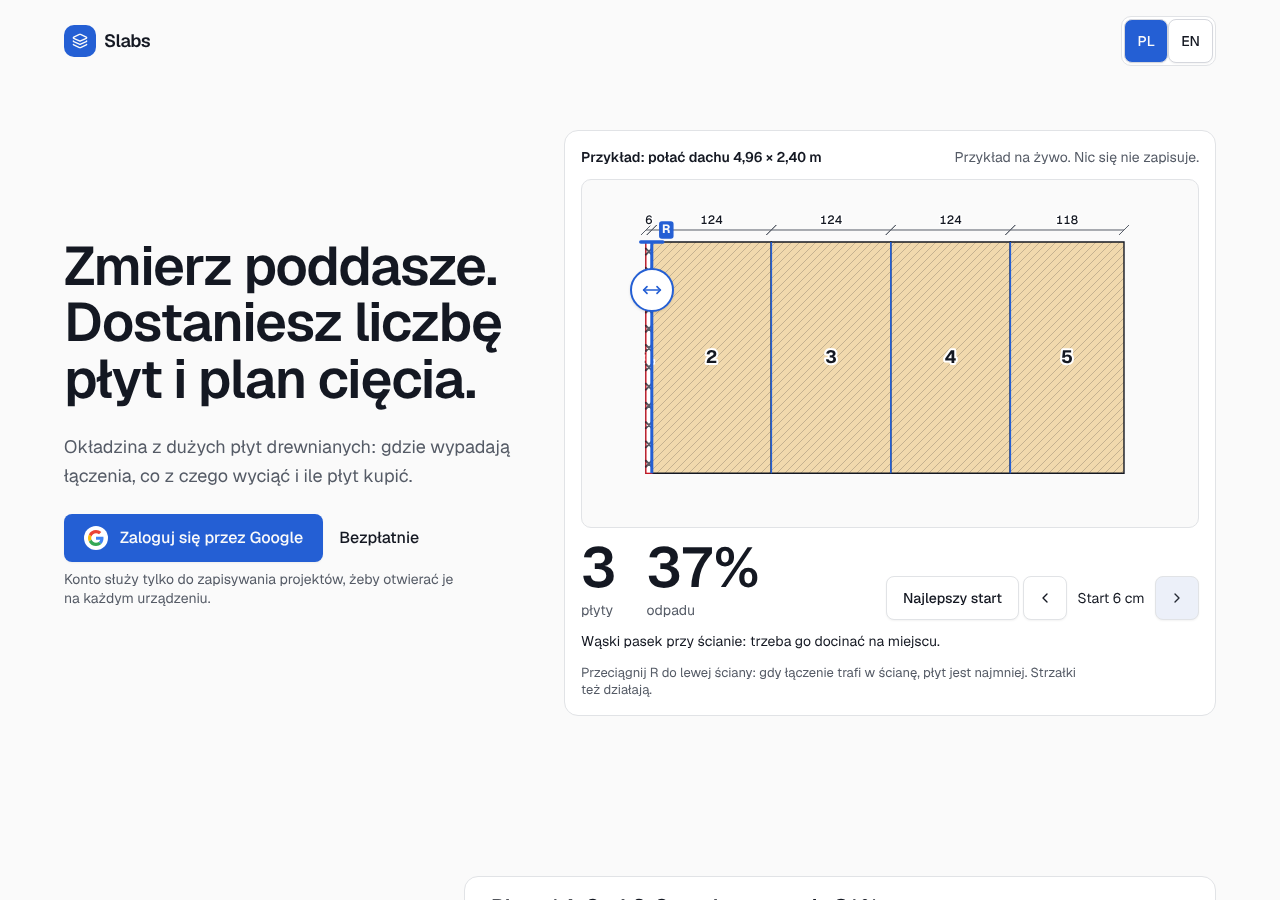
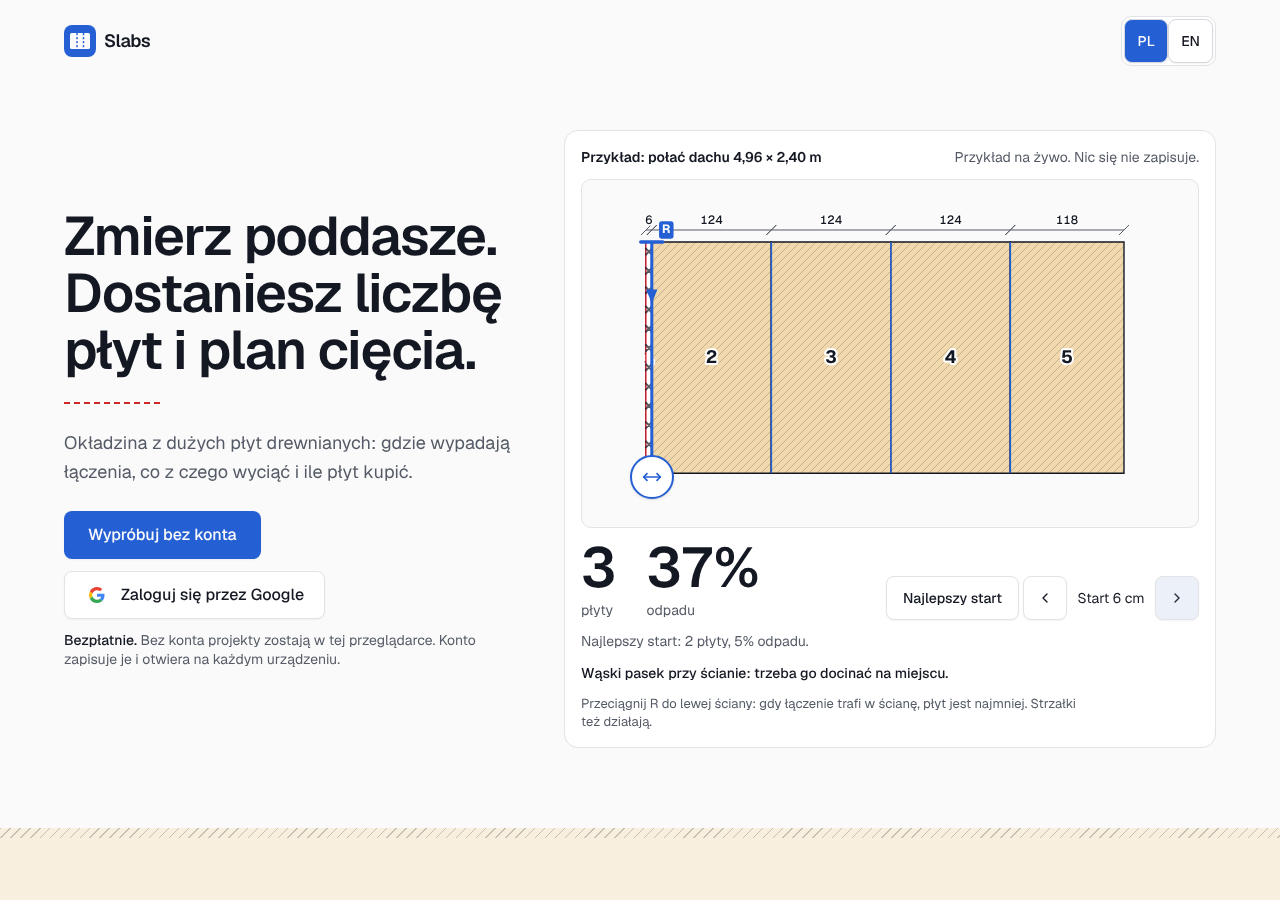
Landing: try without an account, own mark and paper bands, best-start comparison, phone fixes

diff --git a/packages/web/src/landing/Landing.tsx b/packages/web/src/landing/Landing.tsx
@@ -1,7 +1,6 @@
 import { useEffect } from 'react';
-import { Layers } from 'lucide-react';
 import { MARK_DEFS } from '@slabs/render';
-import { SignInTrigger } from '@/auth';
+import { SignInTrigger, enterGuest } from '@/auth';
 import { Button } from '@/components/ui/button';
 import { lang, nf, s, setLang } from '@/i18n';
 import { useLang } from '@/i18n/useLang';
@@ -21,21 +20,41 @@ function GoogleG({ className }: { className?: string }) {
   );
 }
 
-/** The one action of the page: sign in with Google (Clerk's modal). */
+/** The Slabs mark: a plate with its cut line. */
+function Mark({ className }: { className?: string }) {
+  return (
+    <svg viewBox="0 0 32 32" className={className} aria-hidden="true" focusable="false">
+      <rect width="32" height="32" rx="8" className="fill-primary" />
+      <rect x="6" y="8" width="20" height="16" rx="1.5" className="fill-primary-foreground" />
+      <path d="M13 8v16M19.5 8v16" stroke="currentColor" className="text-primary" strokeWidth="1.4" strokeDasharray="2.2 1.8" />
+    </svg>
+  );
+}
+
+/** The two ways in: the app without an account (primary), and Google sign-in (Clerk's modal), which saves projects to the account. */
 function SignInCta({ onBlue = false }: { onBlue?: boolean }) {
   return (
-    <div className="flex flex-wrap items-center gap-x-4 gap-y-2">
-      <SignInTrigger>
+    <div className="flex flex-col gap-3">
+      <div className="flex flex-wrap items-center gap-x-3 gap-y-3">
         <Button
-          data-a="sign-in"
-          className={cn('h-12 gap-3 px-5 text-base', onBlue && 'bg-card text-foreground hover:bg-card/90')}
+          data-a="try-guest" onClick={enterGuest}
+          className={cn('h-12 px-6 text-base', onBlue && 'bg-card text-foreground hover:bg-card/90')}
         >
-          <span className="grid size-6 place-items-center rounded-full bg-card"><GoogleG className="size-4" /></span>
-          {s.landing.cta}
+          {s.landing.tryIt}
         </Button>
-      </SignInTrigger>
-      <span className={cn('text-base font-medium', onBlue ? 'text-primary-foreground' : 'text-foreground')}>{s.landing.free}</span>
-      {!onBlue && <p className="basis-full max-w-[44ch] text-sm leading-snug text-muted-foreground">{s.landing.accountWhy}</p>}
+        <SignInTrigger>
+          <Button
+            data-a="sign-in" variant="outline"
+            className={cn('h-12 gap-3 px-5 text-base', onBlue && 'border-primary-foreground/40 bg-transparent text-primary-foreground hover:bg-primary-foreground/10 hover:text-primary-foreground')}
+          >
+            <span className="grid size-6 place-items-center rounded-full bg-card"><GoogleG className="size-4" /></span>
+            {s.landing.cta}
+          </Button>
+        </SignInTrigger>
+      </div>
+      <p className={cn('max-w-[48ch] text-sm leading-snug', onBlue ? 'text-primary-foreground/90' : 'text-muted-foreground')}>
+        <span className={cn('font-medium', onBlue ? 'text-primary-foreground' : 'text-foreground')}>{s.landing.free}.</span> {s.landing.accountWhy}
+      </p>
     </div>
   );
 }
@@ -61,14 +80,19 @@ function Plate({ a, label }: { a: ArtPlate; label: string }) {
   return <svg viewBox={`0 0 ${a.w} ${a.h}`} role="img" aria-label={label} className="block h-auto w-full min-w-[560px]" dangerouslySetInnerHTML={{ __html: a.svg }} />;
 }
 
-function Section({ id, title, text, flip, children }: { id: string; title: string; text: string; flip?: boolean; children: React.ReactNode }) {
+function Section({ id, step, title, text, flip, paper, children }: { id: string; step: string; title: string; text: string; flip?: boolean; paper?: boolean; children: React.ReactNode }) {
   return (
-    <section aria-labelledby={id} className="mx-auto grid w-full max-w-[1200px] items-center gap-x-12 gap-y-6 px-4 py-14 sm:px-6 md:py-20 grid-cols-[minmax(0,1fr)] lg:grid-cols-12">
+    <section aria-labelledby={id} className={cn(paper && 'band-paper')}>
+      {paper && <div className="hatch-edge" aria-hidden="true" />}
+      <div className="mx-auto grid w-full max-w-[1200px] items-center gap-x-12 gap-y-6 px-4 py-14 sm:px-6 md:py-20 grid-cols-[minmax(0,1fr)] lg:grid-cols-12">
       <div className={cn('flex flex-col gap-3 lg:col-span-4', flip ? 'lg:order-2 lg:col-start-9' : 'lg:col-start-1')}>
+        <p className="text-sm font-semibold tabular-nums tracking-wide text-primary">{step}</p>
         <h2 id={id} className="text-balance text-[clamp(1.6rem,3vw,2.25rem)] font-semibold leading-tight tracking-tight">{title}</h2>
         <p className="max-w-[48ch] text-base leading-relaxed text-muted-foreground">{text}</p>
       </div>
       <div className={cn('lg:col-span-8', flip ? 'lg:order-1 lg:col-start-1' : 'lg:col-start-5')}>{children}</div>
+      </div>
+      {paper && <div className="hatch-edge" aria-hidden="true" />}
     </section>
   );
 }
@@ -76,7 +100,8 @@ function Section({ id, title, text, flip, children }: { id: string; title: strin
 const Figure = ({ children, caption }: { children: React.ReactNode; caption: string }) => (
   <figure className="flex flex-col gap-2">
     <div className="overflow-x-auto rounded-xl border bg-card p-2 sm:p-3" tabIndex={0} role="group" aria-label={caption}>{children}</div>
-    <figcaption className="max-w-[66ch] text-[13px] leading-snug text-muted-foreground">{caption}</figcaption>
+    <figcaption className="max-w-[66ch] text-sm leading-snug text-muted-foreground">{caption}</figcaption>
+    <p className="text-xs text-muted-foreground sm:hidden">{s.landing.sideScroll}</p>
   </figure>
 );
 
@@ -92,7 +117,7 @@ function SheetPage({ a }: { a: ArtPlate }) {
         </div>
         <div className="overflow-x-auto" tabIndex={0} role="group" aria-label={t.figure}><Plate a={a} label={t.alt} /></div>
         <table className="mt-4 w-full text-left text-sm">
-          <caption className="pb-1 text-left text-[13px] font-semibold">{t.pieces}</caption>
+          <caption className="pb-1 text-left text-sm font-semibold">{t.pieces}</caption>
           <tbody>
             {a.rows.slice(0, 5).map((r) => (
               <tr key={r.label} className="border-t">
@@ -104,7 +129,7 @@ function SheetPage({ a }: { a: ArtPlate }) {
           </tbody>
         </table>
       </div>
-      <figcaption className="max-w-[66ch] text-[13px] leading-snug text-muted-foreground">{t.figure}</figcaption>
+      <figcaption className="max-w-[66ch] text-sm leading-snug text-muted-foreground">{t.figure}</figcaption>
     </figure>
   );
 }
@@ -136,31 +161,32 @@ export default function Landing() {
       <a className="sr-only focus:not-sr-only focus:absolute focus:left-2 focus:top-2 focus:z-50 focus:rounded-md focus:bg-foreground focus:px-3 focus:py-2 focus:text-background" href="#main">{s.bar.skip}</a>
       <header className="mx-auto flex w-full max-w-[1200px] items-center justify-between gap-4 px-4 pt-4 sm:px-6">
         <a href="./" className="flex min-h-11 items-center gap-2 text-lg font-semibold tracking-tight outline-none focus-visible:ring-[3px] focus-visible:ring-ring focus-visible:ring-offset-2 rounded-md" aria-label={L.home}>
-          <span className="grid size-8 place-items-center rounded-lg bg-primary text-primary-foreground"><Layers className="size-4" aria-hidden="true" /></span>Slabs
+          <Mark className="size-8" />Slabs
         </a>
         <LangSwitch />
       </header>
       <main id="main">
-        <div className="mx-auto grid w-full max-w-[1200px] items-center gap-x-12 gap-y-8 px-4 pb-14 pt-10 sm:px-6 md:pt-16 grid-cols-[minmax(0,1fr)] lg:grid-cols-12 lg:pb-20">
-          <div className="flex flex-col gap-6 lg:col-span-5">
-            <h1 className="text-balance text-[clamp(2.1rem,4.4vw,3.4rem)] font-semibold leading-[1.04] tracking-tight">{L.headline}</h1>
+        <div className="mx-auto grid w-full max-w-[1200px] items-center gap-x-12 gap-y-6 px-4 pb-12 pt-6 sm:px-6 md:pt-16 grid-cols-[minmax(0,1fr)] lg:grid-cols-12 lg:pb-20">
+          <div className="flex flex-col gap-5 lg:col-span-5 lg:gap-6">
+            <h1 className="text-balance text-[clamp(2rem,4.4vw,3.4rem)] font-semibold leading-[1.04] tracking-tight">{L.headline}</h1>
+            <div className="cut-line w-24" aria-hidden="true" />
             <p className="max-w-[44ch] text-lg leading-relaxed text-muted-foreground">{L.lead}</p>
             <SignInCta />
           </div>
           <div className="lg:col-span-7"><LiveWall /></div>
         </div>
 
-        <Section id="rooms-h" title={L.rooms.title} text={L.rooms.text}>
+        <Section id="rooms-h" step={L.steps.rooms} paper title={L.rooms.title} text={L.rooms.text}>
           <Figure caption={L.rooms.figure(art.together.no, art.plates)}><Plate a={art.together} label={L.rooms.alt} /></Figure>
         </Section>
-        <Section id="material-h" title={L.material.title} text={L.material.text} flip>
+        <Section id="material-h" step={L.steps.material} title={L.material.title} text={L.material.text} flip>
           <Figure caption={L.material.figure(art.grooves.no, art.plates)}><Plate a={art.grooves} label={L.material.alt} /></Figure>
         </Section>
-        <Section id="sheets-h" title={L.sheets.title} text={L.sheets.text}>
+        <Section id="sheets-h" step={L.steps.sheets} paper title={L.sheets.title} text={L.sheets.text}>
           <SheetPage a={art.sheet} />
         </Section>
 
-        <section aria-labelledby="closing-h" className="bg-primary text-primary-foreground">
+        <section aria-labelledby="closing-h" className="hatch-fill bg-primary text-primary-foreground">
           <div className="mx-auto flex w-full max-w-[1200px] flex-col gap-5 px-4 py-16 sm:px-6 md:py-24">
             <h2 id="closing-h" className="max-w-[20ch] text-balance text-[clamp(2rem,4.4vw,3.25rem)] font-semibold leading-[1.08] tracking-tight">{L.closing.title}</h2>
             <p className="max-w-[52ch] text-lg leading-relaxed">{L.closing.text}</p>
@@ -169,7 +195,7 @@ export default function Landing() {
         </section>
       </main>
       <footer className="mx-auto flex w-full max-w-[1200px] items-center justify-between gap-4 px-4 py-6 sm:px-6">
-        <span className="flex items-center gap-2 text-sm font-semibold"><Layers className="size-4" aria-hidden="true" />Slabs</span>
+        <span className="flex items-center gap-2 text-sm font-semibold"><Mark className="size-5" />Slabs</span>
         <LangSwitch />
       </footer>
     </div>

diff --git a/packages/web/src/landing/LiveWall.tsx b/packages/web/src/landing/LiveWall.tsx
@@ -8,7 +8,8 @@ import { PITCH, SAMPLE_W, sampleWall, wrapShift } from './sample';
 
 const START0 = 47;
 /** the start where a plate joint lies on the left wall: the fewest plates, no sliver */
-const BEST = sampleWall(0).plates;
+const BEST_WALL = sampleWall(0);
+const BEST = BEST_WALL.plates;
 
 /** Whole centimetres, with a magnet to the start where a joint lies on the wall (within 14 px). */
 function snap(v: number, perCm: number): number {
@@ -90,7 +91,7 @@ export function LiveWall() {
             role="slider" tabIndex={0} data-a="wall-handle"
             aria-label={s.landing.wall.handle} aria-valuemin={0} aria-valuemax={PITCH - 1} aria-valuenow={cm} aria-valuetext={s.landing.wall.handleValue(cm)}
             className={`absolute grid size-11 -translate-x-1/2 place-items-center rounded-full border-2 border-primary bg-card text-primary shadow-sm outline-none focus-visible:ring-[3px] focus-visible:ring-ring focus-visible:ring-offset-2 [touch-action:none] ${touched ? '' : 'hand-hint'}`}
-            style={{ left: h.x, top: h.y + 26 }}
+            style={{ left: h.x, top: Math.max(h.y + 26, (drawing?.h ?? 0) - 74) }}
             onKeyDown={(e) => {
               const step = e.shiftKey ? 10 : 1;
               if (e.key === 'ArrowRight' || e.key === 'ArrowUp') { e.preventDefault(); set(Math.round(shift) + step); }
@@ -123,7 +124,10 @@ export function LiveWall() {
           <Button variant="outline" size="icon" aria-label={s.landing.wall.right} data-a="wall-right" onClick={() => set(Math.round(shift) + 5)}><ChevronRight /></Button>
         </div>
       </div>
-      <p className="max-w-[60ch] text-sm leading-snug" data-a="wall-note">{note}</p>
+      <p className="max-w-[60ch] text-sm leading-snug text-muted-foreground" data-a="wall-best-is">
+        {data.plates === BEST && pct === Math.round(BEST_WALL.waste * 100) ? s.landing.wall.isBest : s.landing.wall.bestIs(`${BEST} ${s.bar.plates(BEST)}`, Math.round(BEST_WALL.waste * 100))}
+      </p>
+      <p className="max-w-[60ch] text-sm font-medium leading-snug" data-a="wall-note">{note}</p>
       <p className="max-w-[60ch] text-[13px] leading-snug text-muted-foreground">{s.landing.wall.hint}</p>
       <p className="sr-only" role="status" aria-live="polite">{announce}</p>
     </figure>

diff --git a/packages/web/src/auth/index.tsx b/packages/web/src/auth/index.tsx
@@ -18,8 +18,22 @@ const publishableKey: string | undefined = import.meta.env.VITE_CLERK_PUBLISHABL
 const stub = typeof __AUTH_STUB__ !== 'undefined' && __AUTH_STUB__;
 const single = typeof __SINGLEFILE__ !== 'undefined' && __SINGLEFILE__;
 
+// "Try without an account": a visitor who has not signed in can open the editor with projects kept in this browser only (exactly
+// the no-login mode below). It is a per-tab choice, set before a reload so the whole app starts in that mode; signing in later
+// offers the browser's projects to the account (the claim flow).
+const GUEST_KEY = 'slabs-guest';
+const readGuest = (): boolean => { try { return sessionStorage.getItem(GUEST_KEY) === '1'; } catch { return false; } };
+/** True in a tab that chose to try the app without an account. */
+export const guest = !single && readGuest();
+/** Opens the editor without an account (restarts the app in the no-login mode). */
+export function enterGuest(): void { try { sessionStorage.setItem(GUEST_KEY, '1'); } catch { /* ignore */ } location.reload(); }
+/** Back to the landing page, where the sign-in is. */
+export function leaveGuest(): void { try { sessionStorage.removeItem(GUEST_KEY); } catch { /* ignore */ } location.replace(location.pathname); }
+
 /** True when this build requires a sign-in. */
-export const authEnabled = !single && (!!publishableKey || stub);
+export const authEnabled = !single && !guest && (!!publishableKey || stub);
+/** True when a sign-in exists in this build but this tab did not use it. */
+export const canSignIn = !single && (!!publishableKey || stub) && guest;
 
 export type AuthState = { status: 'off' } | { status: 'loading' } | { status: 'out' } | { status: 'in'; userId: string };
 
@@ -76,6 +90,7 @@ export function SignInTrigger({ children }: { children: ReactElement }) {
 
 /** The account button of the signed-in user. */
 export function AuthControls() {
+  if (canSignIn) return <Button variant="outline" data-a="guest-sign-in" onClick={leaveGuest}>{s.auth.guestSignIn}</Button>;
   if (!authEnabled) return null;
   if (stub) return <Button variant="outline" data-a="sign-out" onClick={stubSignOut}>{s.auth.signOut}</Button>;
   return <UserButton />;

diff --git a/packages/web/src/i18n/pl.ts b/packages/web/src/i18n/pl.ts
@@ -21,6 +21,7 @@ export const pl = {
     signIn: 'Zaloguj się',
     signUp: 'Załóż konto',
     signOut: 'Wyloguj (test)',
+    guestSignIn: 'Zaloguj, by zapisać na koncie',
   },
   access: {
     readOnlyToast: 'Ten projekt jest tylko do odczytu.',
@@ -75,14 +76,19 @@ export const pl = {
     headline: 'Zmierz poddasze. Dostaniesz liczbę płyt i plan cięcia.',
     lead: 'Okładzina z dużych płyt drewnianych: gdzie wypadają łączenia, co z czego wyciąć i ile płyt kupić.',
     cta: 'Zaloguj się przez Google',
+    tryIt: 'Wypróbuj bez konta',
     free: 'Bezpłatnie',
-    accountWhy: 'Konto służy tylko do zapisywania projektów, żeby otwierać je na każdym urządzeniu.',
+    accountWhy: 'Bez konta projekty zostają w tej przeglądarce. Konto zapisuje je i otwiera na każdym urządzeniu.',
+    sideScroll: 'Przesuń rysunek w bok, żeby zobaczyć całość.',
+    steps: { rooms: '01 · Pomieszczenia', material: '02 · Materiał', sheets: '03 · Cięcie' },
     wall: {
       title: 'Przykład: połać dachu 4,96 × 2,40 m',
       aria: 'Połać dachu z płytami. Przeciągnij punkt startu R, aby przesunąć łączenia.',
       hint: 'Przeciągnij R do lewej ściany: gdy łączenie trafi w ścianę, płyt jest najmniej. Strzałki też działają.',
       bestBtn: 'Najlepszy start',
       note: 'Przykład na żywo. Nic się nie zapisuje.',
+      bestIs: (plates: string, pct: number) => `Najlepszy start: ${plates}, ${pct}% odpadu.`,
+      isBest: 'To najlepszy start dla tej ściany.',
       wasteLabel: 'odpadu',
       handle: 'Punkt startu R',
       handleValue: (cm: number) => `${cm} cm od lewej ściany`,

diff --git a/packages/web/src/i18n/en.ts b/packages/web/src/i18n/en.ts
@@ -20,6 +20,7 @@ export const en: Strings = {
   auth: {
     signIn: 'Sign in',
     signUp: 'Sign up',
+    guestSignIn: 'Sign in to save to your account',
     signOut: 'Sign out (test)',
   },
   access: {
@@ -75,14 +76,19 @@ export const en: Strings = {
     headline: 'Measure the attic. Get the plate count and the cutting plan.',
     lead: 'Cladding with large wooden plates: where the joints fall, what to cut from what, and how many plates to buy.',
     cta: 'Sign in with Google',
+    tryIt: 'Try it without an account',
     free: 'Free',
-    accountWhy: 'An account only saves your projects so you can open them on any device.',
+    accountWhy: 'Without an account, projects stay in this browser. An account saves them and opens them on any device.',
+    sideScroll: 'Slide the drawing sideways to see all of it.',
+    steps: { rooms: '01 · Rooms', material: '02 · Material', sheets: '03 · Cutting' },
     wall: {
       title: 'Example: a roof slope 4.96 × 2.40 m',
       aria: 'A roof slope with plates. Drag the start point R to move the joints.',
       hint: 'Drag R to the left wall: when a joint lies on the wall the plate count is lowest. Arrow keys work too.',
       bestBtn: 'Best start',
       note: 'A live example. Nothing is saved.',
+      bestIs: (plates: string, pct: number) => `Best start: ${plates}, ${pct}% waste.`,
+      isBest: 'This is the best start for this wall.',
       wasteLabel: 'waste',
       handle: 'Start point R',
       handleValue: (cm: number) => `${cm} cm from the left wall`,

diff --git a/packages/web/src/index.css b/packages/web/src/index.css
@@ -30,6 +30,9 @@
   --win: #bfdcf0;
   --other-bg: #e6e6e3;
   --other-ink: #a3a3a0;
+  /* landing: the warm paper of a cutting sheet and the red of a cut line */
+  --paper: oklch(0.955 0.025 82);
+  --cut: oklch(0.55 0.2 27);
 }
 .dark {
   --background: oklch(0.16 0.012 265);
@@ -56,6 +59,8 @@
   --win: #36668a;
   --other-bg: #2b2e33;
   --other-ink: #666b72;
+  --paper: oklch(0.21 0.02 75);
+  --cut: oklch(0.72 0.16 27);
 }
 
 @theme inline {
@@ -302,3 +307,9 @@ svg.mark { display: block; max-width: none; }
 @keyframes hand-hint { 0%, 100% { transform: translateX(0); } 35% { transform: translateX(9px); } 70% { transform: translateX(-5px); } }
 .hand-hint > svg { animation: hand-hint 1.4s cubic-bezier(.16, 1, .3, 1) 1.2s 2; }
 @media (prefers-reduced-motion: reduce) { .hand-hint > svg { animation: none; } }
+
+/* landing: the page speaks the drawings' language: paper bands with a hatch edge, dashed cut lines */
+.band-paper { background-color: var(--paper); }
+.hatch-edge { background-image: repeating-linear-gradient(135deg, color-mix(in oklab, var(--foreground) 22%, transparent) 0 1px, transparent 1px 7px); height: 10px; }
+.hatch-fill { background-image: repeating-linear-gradient(135deg, rgb(255 255 255 / 0.16) 0 1px, transparent 1px 9px); }
+.cut-line { border-top: 2px dashed var(--cut); }

diff --git a/docs/STATUS.md b/docs/STATUS.md
@@ -356,3 +356,12 @@ The two sites keep **separate project storage**: a link from the Netlify site do
 * **Score 30/40** (Assessment A design review, 10 heuristics; verdict "coherent and honest, one notch short of distinctive"). Assessment B (detector + browser evidence): no P0/P1; only advisory 13px helper text (allowed by DESIGN.md), a faint focus ring (P2) and a few P3 items.
 * **P1 fixed once**: (1) the "aha" was hidden (numbers change only at start 0): added a "Najlepszy start" button, a hint that says where to drag, magnet widened to 14 px; (2) the Google gate gave no reason: one line under the first button says the account only saves projects for every device. P2 fixed with it: opaque focus rings with offset on landing controls, `touch-action: none` on the handle, less empty space under the hero.
 * **Open (not fixed)**: three sections share one layout; the wordmark is a generic icon tile (no brand decided); piece labels like "Sy3b" are unexplained; the sample cannot take the visitor's own measurements; the drawing is small on a phone (renderer padding).
+
+### Landing: second critique round (26/36, "competent, quiet, not distinctive") and what changed
+
+* **Try without an account**: the hero and closing band now lead with "Wypróbuj bez konta" (`enterGuest()` in `auth/index.tsx`: a per-tab `sessionStorage` flag, then reload, so the app starts in the existing no-login mode: projects in this browser). Google sign-in is the second button. In a guest tab the top bar shows "Zaloguj, by zapisać na koncie" (`leaveGuest()` back to the landing page); the browser's projects are then offered to the account by the claim flow.
+* **Identity**: own mark (a plate with its cut lines) instead of the generic icon; a dashed red cut line under the headline; warm "cutting sheet" paper bands with a hatch edge for sections 01 and 03; numbered kickers; the closing band carries a faint hatch. Tokens `--paper` and `--cut` in `index.css` (light and dark).
+* **Hero stat**: under the numbers, "Najlepszy start: 2 płyty, 5% odpadu." (or "To najlepszy start dla tej ściany."), so 37% reads as a choice, not a verdict.
+* **Phone**: the drag handle sits at the bottom of the start line (it covered a plate number), tighter hero spacing, a "slide sideways" cue under wide figures, "Bezpłatnie" moved into the explanatory line, captions 14px instead of 13px.
+* **Tests**: `e2e/landing.mjs` gained the guest flow; no existing check changed. Landing screenshots replaced.
+* **Open**: figures on a phone still scroll sideways (labels need 560 px); no real-project proof exists to show yet.
